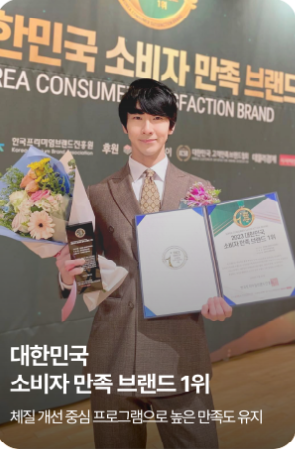
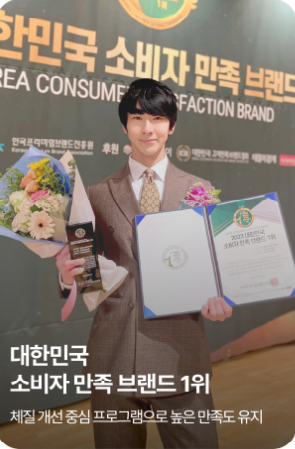
보미오라 소개 대표님 이미지 모서리 개선
- 원인:
  - 원본 이미지 자체에 모서리 곡선이 약 12px 정도만 적용되어 있어 모서리가 각지게 보임
  - 이미지에 포함된 흰색 자국과 비대칭 모서리가 그대로 노출됨

- 수정:
  - 대표님 이미지를 사각형 원본으로 변경
  - 둥근 모서리는 화면에서 한 번만 적용
  - 카드 너비의 7% 반경으로 네 귀퉁이를 동일하게 클리핑
  - 기존 이미지의 흰 자국과 불균형한 모서리는 클립 영역 밖으로 처리

- 결과:
  - 네 귀퉁이가 동일한 곡선으로 표시
  - 모서리 깨짐 및 흰색 흔적 제거
  - 이미지 아래 소개 문구가 잘리지 않음

- 반영:
  - 이미지 에셋이 변경되어 핫 리로드가 아닌 앱 재실행 필요

diff --git a/lib/presentation/shopping/widgets/product_main/product_main_sections.dart b/lib/presentation/shopping/widgets/product_main/product_main_sections.dart
@@ -856,9 +856,10 @@ class _StaggeredBottomGrid extends StatelessWidget {
   @override
   Widget build(BuildContext context) {
     // 기본 설계(375 기준) — 폭에 따라 healthDp로 스케일
+    // 사진 비율. 모서리 곡선은 아래 ClipRRect 한 곳만 그린다.
+    const cardAspect = 295 / 449;
     final colW = healthDp(context, 124);
     final gap = healthDp(context, 8);
-    final cellH = healthDp(context, 158);
     final stagger = healthDp(context, 24);
     final rowGap = healthDp(context, 10);
 
@@ -867,27 +868,25 @@ class _StaggeredBottomGrid extends StatelessWidget {
         final w = c.maxWidth;
         final leftW = (w - gap) / 2;
         final scale = leftW / colW;
-        final h = cellH * scale;
         final g = gap;
         final rg = rowGap * scale;
         final st = stagger * scale;
 
         Widget cell(String asset) {
-          final radius = BorderRadius.circular(healthDp(context, 8));
+          // 카드 너비의 7%. 사진에 남은 모서리 흠(약 5%)보다 커서
+          // 잘린 자국은 가려지고, 곡선은 화면 해상도에서 한 번만 그려진다.
+          final radius = leftW * 0.07;
           return ClipRRect(
-            borderRadius: radius,
+            borderRadius: BorderRadius.circular(radius),
+            clipBehavior: Clip.antiAliasWithSaveLayer,
             child: AspectRatio(
-              aspectRatio: leftW / h,
-              child: Transform.scale(
-                scale: 1.02,
-                child: Image.asset(
-                  asset,
-                  fit: BoxFit.cover,
-                  alignment: Alignment.center,
-                  filterQuality: FilterQuality.medium,
-                  errorBuilder: (_, __, ___) =>
-                      const ColoredBox(color: Color(0xFFEEEEEE)),
-                ),
+              aspectRatio: cardAspect,
+              child: Image.asset(
+                asset,
+                fit: BoxFit.cover,
+                filterQuality: FilterQuality.high,
+                errorBuilder: (_, __, ___) =>
+                    ColoredBox(color: Colors.grey[200]!),
               ),
             ),
           );
